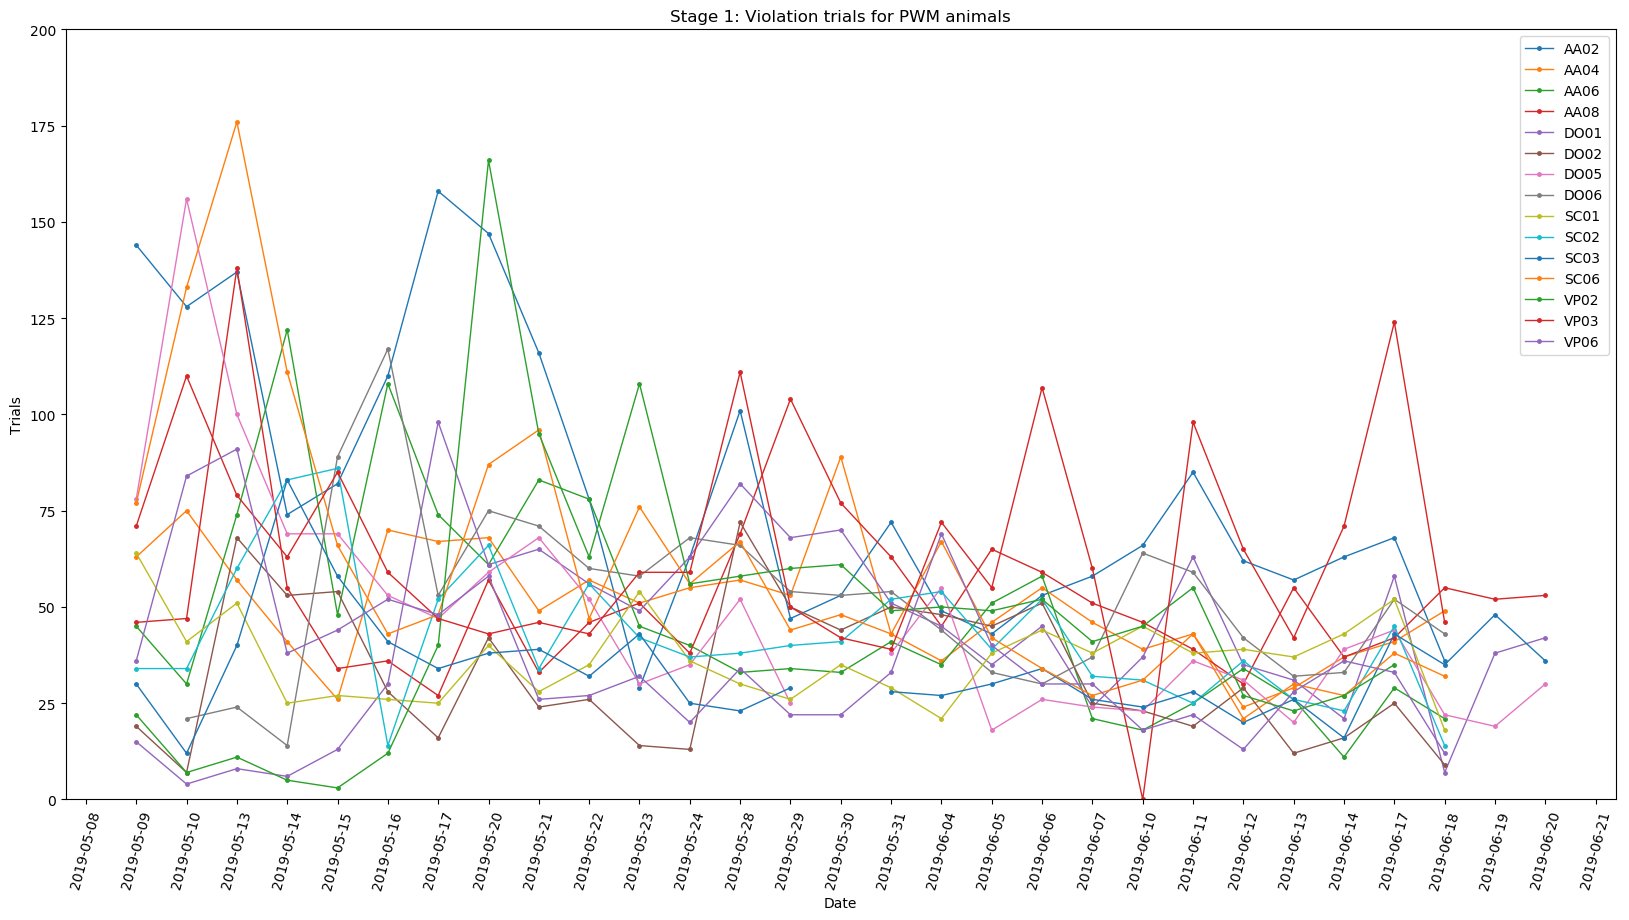
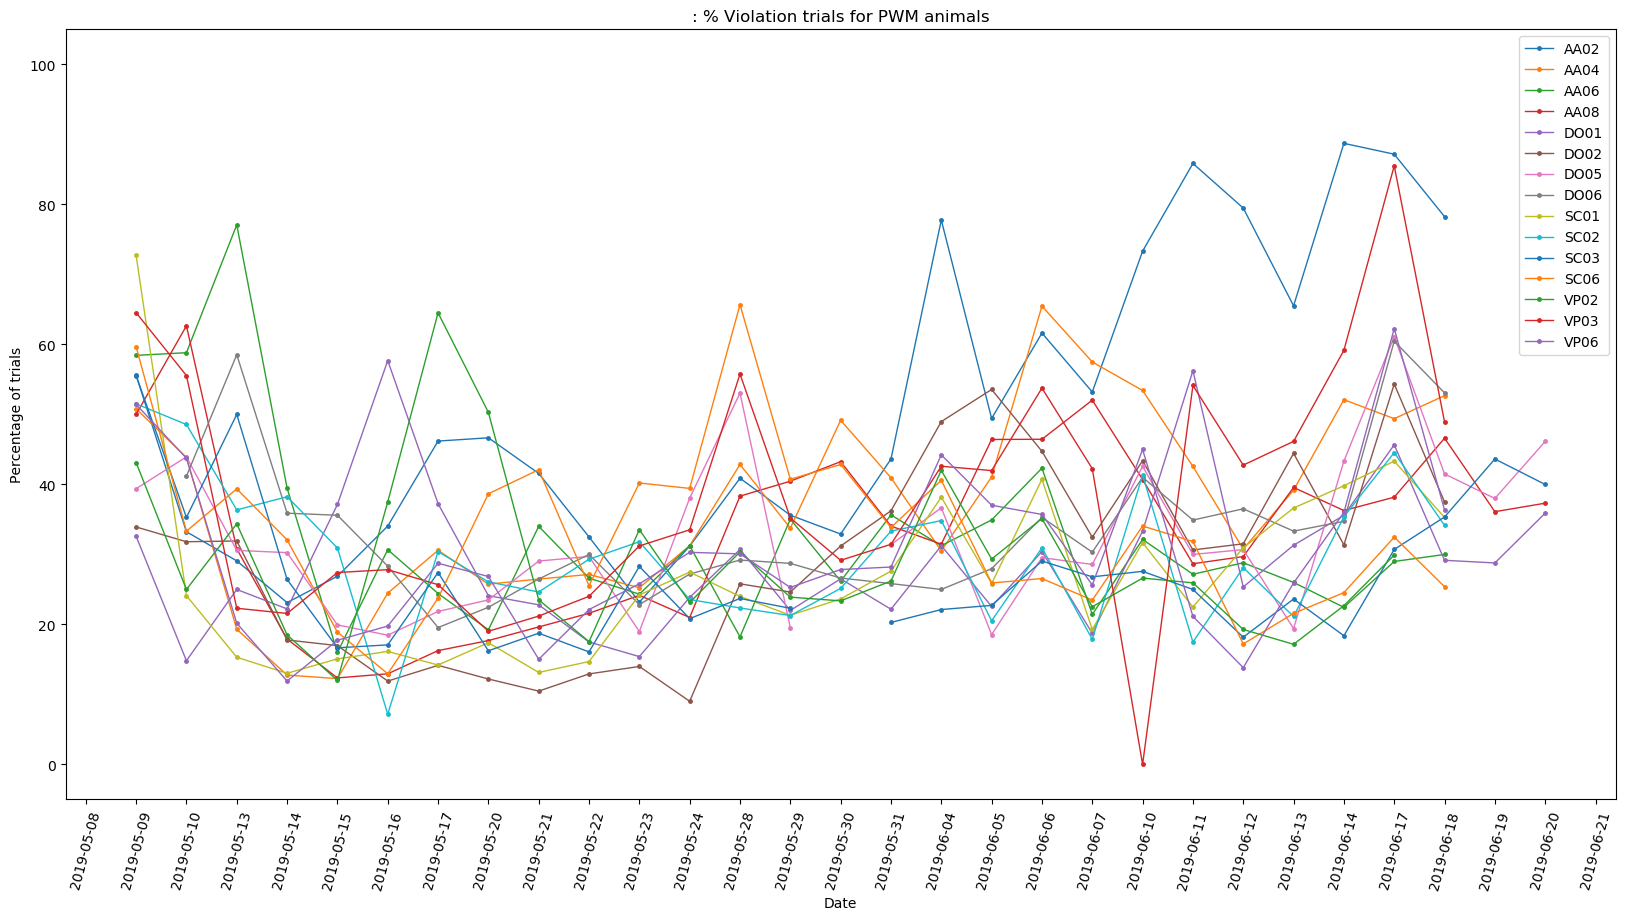
plotting function now plots percentage of trials, made left and right % plots

diff --git a/Plotting.py b/Plotting.py
@@ -78,7 +78,7 @@ def plot_cp(df, stage='All'):
     return cp_plot
 
 
-def plot_trials(df, stage='All', p_type = 'all_trials', inc_vio=True, perc = True, ):
+def plot_trials(df, stage='All', p_type='all_trials'):
 
     p_types = ['all_trials', 'vio_only', 'tm_only', 'left', 'right']
     if p_type not in p_types:
@@ -91,66 +91,45 @@ def plot_trials(df, stage='All', p_type = 'all_trials', inc_vio=True, perc = Tru
     else:
         print('all stages included')
 
+    # Remove violations and trials from done trials
+    df['done_trials'] = df['done_trials'] - ((df['violations'] + df['timeouts']) * df['done_trials'])
     if p_type is 'left' or 'right':  # might not need to be if statement, just do no matter what
         # this should only occur inside the function so change be global just for the division.
         # how would it effect the other calculations
-
-         # replace
-        df['done_trials'] = df['done_trials'] - ((df['violations'] + df['timeouts'])*df['done_trials'])
         mask = df['done_trials'] == 0
-        df['done_trials'] = df['done_trials'].mask(mask, 1)
+        df['done_trials'] = df['done_trials'].mask(mask, 1)  # replace all 0s with 1 for division further down
 
-        #df_correct = df['done_trials'] - (df['done_trials'] * df['violations']) - (df['done_trials'] * df['timeouts'])
-    p_types_dict = {'all_trials': df['done_trials'] - (df['done_trials'] * df['violations']),  #not %
+    p_types_dict = {'all_trials': df['done_trials'],
                     'vio_only': df['violations'] * 100,
                     'tm_only': df['timeouts']*100,
-                    'left': df['left_trials'] / df['done_trials']*100,  #might have to make this minus vio and timeouts
-                    'right': df['left_trials'] / df['done_trials']*100}
+                    'left': df['left_trials'] / df['done_trials']*100,
+                    'right': df['right_trials'] / df['done_trials']*100}
 
-    p_types_title = {'all_trials': ': Done trials for PWM animals minus violations ',
-                    'vio_only': ': % Violation trials for PWM animals',
-                    'tm_only': ': % Timeout trials for PWM animals',
-                    'left': '% left trials for PWM animals',
-                    'right': '% right trials for PWM animals'}
+    p_types_title = {'all_trials': 'All done trials for PWM animals minus violations and timeouts ',
+                     'vio_only': ': % Violation trials for PWM animals',
+                     'tm_only': ': % Timeout trials for PWM animals',
+                     'left': '% Left trials for PWM animals',
+                     'right': '% Right trials for PWM animals'}
 
-     #if trials = true:
-     #   take the thing and multiply by done_trials
     df_trials = p_types_dict[p_type]
     col_list = df_trials.columns.values  # get list to use for labelling
     tri_plot = plt.plot(df_trials,
                         marker='o',
                         linewidth=1.0,
                         markersize=2.5)
+
     if p_type is not 'all_trials':
         plt.ylim([-5, 105])
-
+        plt.ylabel('Percentage of trials')
+    else:
+        plt.ylabel('Trials')
+    # Settings for all plots
     plt.xticks(rotation=75)
     plt.legend(col_list)
     plt.xlabel('Date')
-    plt.ylabel('Trials')
     plt.title(p_types_title[p_type])
 
-    # Labels for plot title
-    violations_label = ''
-    #title = ': Done trials for PWM animals '
-
-    # if vio_only is True:
-
-    #   df_trials = (df['done_trials'] * df['violations'])
-    #title = ': Violation trials for PWM animals'
-    #if tm_only is True:
-       # df_trials = (df['done_trials'] * df['timeouts'])
-        #title = ': Timeout trials for PWM animals'
-    #elif inc_vio is True:
-        #df_trials = df['done_trials'] - (df['done_trials'] * df['violations'])
-        #violations_label = 'minus violations'
-    #else:
-        #df_trials = df['done_trials']
-
-    # plt.plot instead of df.plot fixed my problem with the x-axis, but the colors are worse, and legends are gone\n",
-    # ideally figure out how to fix things in either\n",
     # how to change line colors by making a loop
-    # colormap = cmap=plt.cm.RdPu
     return tri_plot
 
 
@@ -172,40 +151,59 @@ def run_all_plots():
     plt.close()
 
     # Done trials for stage 0
-    st0_trials = plot_trials(pwm, stage=0)
+    st0_trials = plot_trials(pwm, stage=0, p_type='all_trials')
     plt.savefig('Rot3_data\\st0_trials.png', bbox_inches='tight')
     plt.close()
 
     # Done trials for stage 1
-    st1_trials = plot_trials(pwm, stage=1)
+    st1_trials = plot_trials(pwm, stage=1, p_type='all_trials')
     plt.savefig('Rot3_data\\st1_trials.png', bbox_inches='tight')
     plt.close()
 
     # Done trials for stage 2
-    st2_trials = plot_trials(pwm, stage=2)
+    st2_trials = plot_trials(pwm, stage=2, p_type='all_trials')
     plt.savefig('Rot3_data\\st2_trials.png', bbox_inches='tight')
     plt.close()
 
     # Violation trials for stage 1
-    st1_vio_trials = plot_trials(pwm, stage=1, vio_only=True)
+    st1_vio_trials = plot_trials(pwm, stage=1, p_type='vio_only')
     plt.savefig('Rot3_data\\st1_vio_trials.png', bbox_inches='tight')
     plt.close()
 
     # Violation trials for stage 2
-    st2_vio_trials = plot_trials(pwm, stage=2, vio_only=True)
+    st2_vio_trials = plot_trials(pwm, stage=2, p_type='vio_only')
     plt.savefig('Rot3_data\\st2_vio_trials.png', bbox_inches='tight')
     plt.close()
 
     # Timeout trials for stage 1
-    st1_tm_trials = plot_trials(pwm, stage=1, tm_only=True)
+    st1_tm_trials = plot_trials(pwm, stage=1, p_type='tm_only')
     plt.savefig('Rot3_data\\st1_tm_trials.png', bbox_inches='tight')
     plt.close()
 
     # Timeout trials for stage 2
-    st2_tm_trials = plot_trials(pwm, stage=2, tm_only=True)
+    st2_tm_trials = plot_trials(pwm, stage=2, p_type='tm_only')
     plt.savefig('Rot3_data\\st2_tm_trials.png', bbox_inches='tight')
     plt.close()
 
+    # Left trials for stage 1
+    st1_left_trials = plot_trials(pwm, stage=1, p_type='left')
+    plt.savefig('Rot3_data\\st1_left_trials.png', bbox_inches='tight')
+    plt.close()
+
+    # Left trials for stage 2
+    st2_left_trials = plot_trials(pwm, stage=2, p_type='left')
+    plt.savefig('Rot3_data\\st2_left_trials.png', bbox_inches='tight')
+    plt.close()
+
+    # Right trials for stage 1
+    st1_right_trials = plot_trials(pwm, stage=1, p_type='right')
+    plt.savefig('Rot3_data\\st1_right_trials.png', bbox_inches='tight')
+    plt.close()
+
+    # Right trials for stage 2
+    st2_right_trials = plot_trials(pwm, stage=2, p_type='right')
+    plt.savefig('Rot3_data\\st2_right_trials.png', bbox_inches='tight')
+    plt.close()
 
 
 
